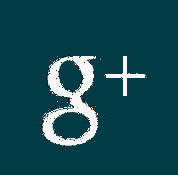
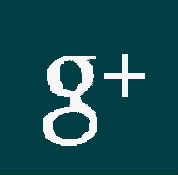
Added some animation for the social media buttons

diff --git a/index.html b/index.html
@@ -73,27 +73,44 @@
                     <input name="emailInput" required="" type="email" value="Email address">
                     <textarea name="comments"></textarea>
                     <button type="submit">Send</button>
-                    <ul id="weblinks">		
-                        <li id="linkedIn">
-                            <a href="https://www.linkedin.com/in/andrielle-hillis-50a27b30">
-                            <img src="images/LinkedIn.jpg" alt="LinkedIn Logo"></a></li>
-                        <li id="google+">
-                            <a href="https://plus.google.com/u/0/109043758950904996114">
-                            <img src="images/Google+.jpg" alt="Google Logo"></a></li>
-                        <li id="github">
-                            <a href="https://github.com/arhillis" target="new">
-                            <img src="images/GitHub.jpg" alt="GitHub Logo"></a></li>
-                        <li id="khanAcad">
-                            <a href="https://www.khanacademy.org/profile/arhillis/">
-                                <img src="images/KhanAcademy.jpg" alt="Khan Academy Logo">
+                    <ul id="weblinks">
+                        <li  class="btn">
+                            <a href="#">
+                                <img src="images/CodePen.jpg" alt="Default image" class="default glyph">
+                                <img src="images/CodePen2.jpg" alt="Hover image" class="hover glyph">
                             </a>
                         </li>
-                        <li id="codePen">
-                            <a href="http://codepen.io/arhillis/#">
-                                <img src="images/CodePen.jpg" alt="CodePen Logo">
+                        <li  class="btn">
+                            <a href="#">
+                                <img src="images/KhanAcademy.jpg" alt="Default image" class="default glyph">
+                                <img src="images/KhanAcademy2.jpg" alt="Hover image" class="hover glyph">
                             </a>
-                        </li> 	
-			        </ul>
+                        </li>
+                        <li  class="btn">
+                            <a href="#">
+                                <img src="images/FreeCodeCamp.jpg" alt="Default image" class="default glyph">
+                                <img src="images/FreeCodeCamp2.jpg" alt="Hover image" class="hover glyph">
+                            </a>
+                        </li>
+                        <li  class="btn">
+                            <a href="#">
+                                <img src="images/Google+.jpg" alt="Default image" class="default glyph">
+                                <img src="images/Google+2.jpg" alt="Hover image" class="hover glyph">
+                            </a>
+                        </li>
+                        <li  class="btn">
+                            <a href="#">
+                                <img src="images/LinkedIn.jpg" alt="Default image" class="default glyph">
+                                <img src="images/LinkedIn2.jpg" alt="Hover image" class="hover glyph">
+                            </a>
+                        </li>
+                        <li  class="btn">
+                            <a href="#">
+                                <img src="images/GitHub.jpg" alt="Default image" class="default glyph">
+                                <img src="images/GitHub2.jpg" alt="Hover image" class="hover glyph">
+                            </a>
+                        </li>
+                    </ul>
                 </div>
             </article>    
 	    </main>

diff --git a/css/styles.css b/css/styles.css
@@ -63,8 +63,7 @@ button{
   float: right;
 }
 
-.project h3,
-#weblinks {
+.project h3{
   margin-top: 0;
 }
 
@@ -72,6 +71,13 @@ main,
 button:hover{  
   color: #013A45;
   background-color: #f8f8f8;
+}
+
+#projects, 
+#weblinks {
+  display: flex;
+  flex-wrap: wrap;
+  justify-content: center;
 }
 
 /*------------NAVIGTION----------*/
@@ -129,11 +135,6 @@ article {
 
 /*--------------PROJECTS-------------------*/
 
-#projects {
-  display: flex;
-  flex-wrap: wrap;
-  justify-content: center;
-}
 
 .project {
   width: 180px;
@@ -181,22 +182,36 @@ footer {
   padding: 10px;
   height: 50px;
 }
-#weblinks{  
-  width: 50%;
-  display: flex;
-  padding-top: 7.5px;
-}
-#weblinks img {
-  width: 25px;
-  height: 25px;
-}
-
-#weblinks li {
-  width: 15%;
-  list-style-type: none;
-}
-
-
+#weblinks{
+            margin-top: -2.5px;
+            width: 50%;
+        }
+        #weblinks li{
+            list-style-type: none;
+        }
+        .btn{
+            position: relative;
+            height: 25px;
+            width: 25px;
+            margin: 5px;
+        }
+        .glyph{
+            position: absolute;
+            width: 25px;
+            border-radius: 4px;
+        }
+        .default{
+            visibility: visible;
+        }
+        .hover{
+            visibility: hidden;
+        }
+        .btn:hover .default{
+            visibility: hidden;
+        }
+        .btn:hover .hover{
+            visibility: visible;
+        }
 /*---------MEDIA QUERRIES------------------*/
 
 @media only screen and (max-width: 600px) {
